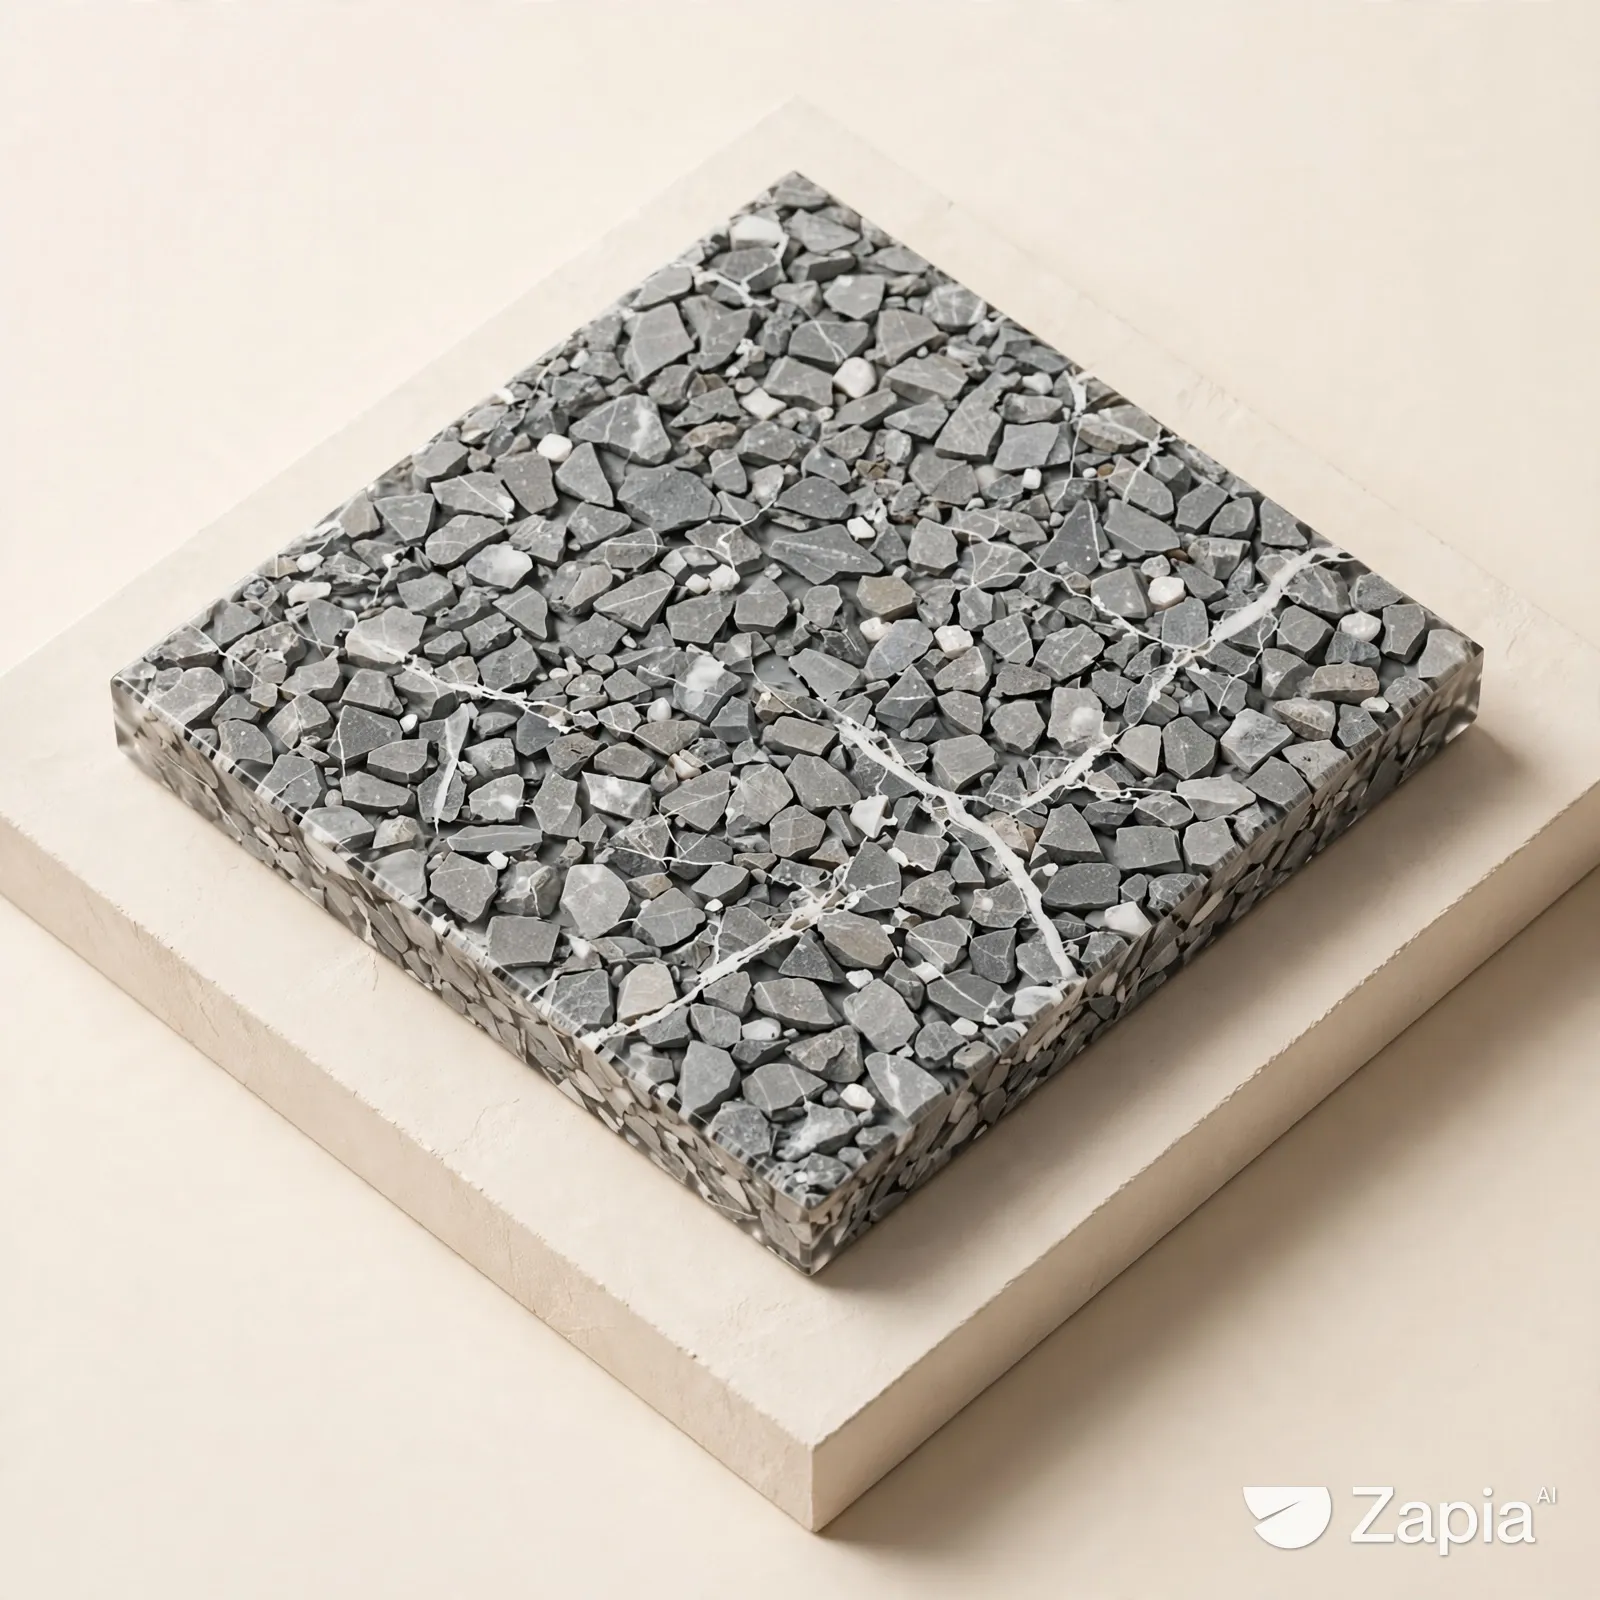
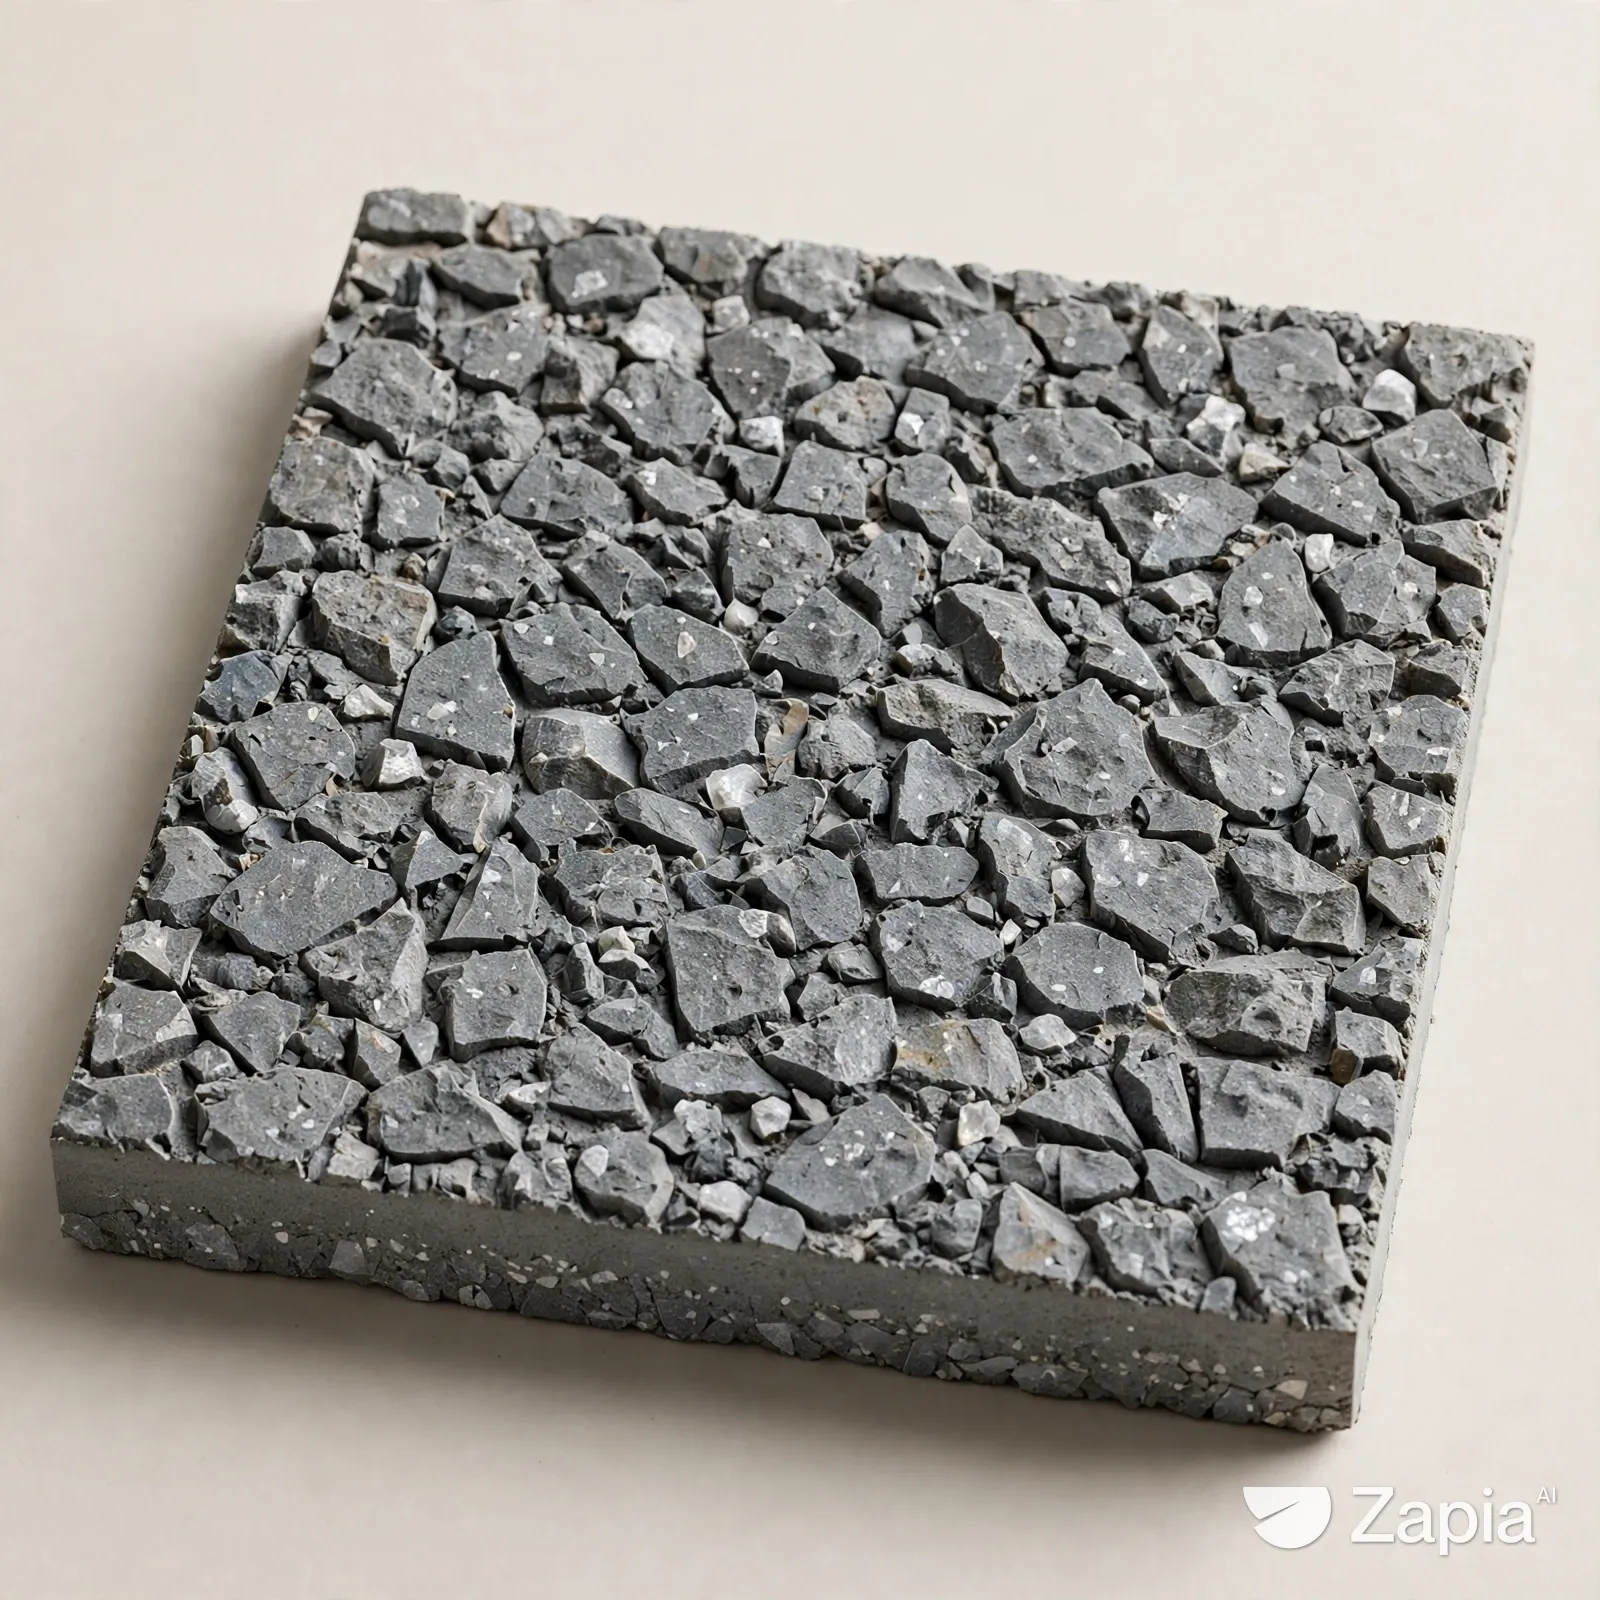
Refine Piso Drenante preview visuals and zoom
Refresh the two conceptual renderings, remove the explanatory box, and set the enlarged product view to 10 × 10 cm. Staging only; original live site unchanged.

diff --git a/index-pt.html b/index-pt.html
@@ -646,7 +646,16 @@
         .granza-volcan-gallery .granza-gallery-grid { grid-template-columns:minmax(0,1fr); max-width:760px; margin:0 auto; }
         @media (max-width:760px) { .granza-inty-gallery .granza-gallery-grid,.granza-siena-gallery .granza-gallery-grid,.granza-volcan-gallery .granza-gallery-grid { grid-template-columns:1fr; max-width:none; } }
         /* Application galleries per aggregate, with accessible CSS-only filters. */
-        </style></head>
+        </style><style id="piso-drenante-zoom-override">
+.piso-drenante-product .img-zoom-preview.granza-reference-preview img {
+  width: 10cm;
+  height: 10cm;
+  max-width: min(90vw, 10cm);
+  max-height: min(90vh, 10cm);
+  object-fit: contain;
+}
+</style>
+</head>
 <body>
 <nav class="nav-executive">
 <div class="nav-inner max-w-7xl mx-auto px-4 flex justify-between items-center">
@@ -889,7 +898,6 @@
 <div class="granza-fact"><strong>Agregado</strong><span>Seixo de rio cinza</span></div>
 </div><div class="granza-use-main"><h3>Aplicação sugerida</h3><p>Pátios e caminhos para pedestres, sujeitos à validação técnica.</p></div></div>
 </div></article>
-<p class="visual-disclaimer">Visualizações conceituais; não representam um produto fabricado. A composição final, a capacidade de drenagem e demais características precisam ser validadas por protótipo e ensaios técnicos. Os usos sugeridos dependem de avaliação técnica e instalação adequada.</p>
 </section>
 <section class="section-content" id="gavion">
 <h2 class="text-3xl font-bold mb-6 text-blue-900 border-l-4 border-yellow-500 pl-4">Gabiões decorativos e mobiliário</h2><p class="visual-disclaimer">As imagens de gabiões são propostas visuais de referência; não representam obras executadas.</p>

diff --git a/index.html b/index.html
@@ -658,7 +658,16 @@
         .granza-volcan-gallery .granza-gallery-grid { grid-template-columns:minmax(0,1fr); max-width:760px; margin:0 auto; }
         @media (max-width:760px) { .granza-inty-gallery .granza-gallery-grid,.granza-siena-gallery .granza-gallery-grid,.granza-volcan-gallery .granza-gallery-grid { grid-template-columns:1fr; max-width:none; } }
         /* Application galleries per aggregate, with accessible CSS-only filters. */
-        </style></head>
+        </style><style id="piso-drenante-zoom-override">
+.piso-drenante-product .img-zoom-preview.granza-reference-preview img {
+  width: 10cm;
+  height: 10cm;
+  max-width: min(90vw, 10cm);
+  max-height: min(90vh, 10cm);
+  object-fit: contain;
+}
+</style>
+</head>
 <body>
 <nav class="nav-executive">
 <div class="nav-inner max-w-7xl mx-auto px-4 flex justify-between items-center">
@@ -889,7 +898,6 @@
 <div class="granza-fact"><strong>Árido</strong><span>Canto rodado de río gris</span></div>
 </div><div class="granza-use-main"><h3>Aplicación sugerida</h3><p>Patios y senderos peatonales, sujetos a validación técnica.</p></div></div>
 </div></article>
-<p class="visual-disclaimer">Visualizaciones conceptuales; no representan un producto fabricado. La composición final, capacidad de drenaje y demás prestaciones deberán validarse mediante prototipo y ensayos técnicos. Los usos sugeridos quedan sujetos a evaluación técnica e instalación adecuada.</p>
 </section>
 <section class="section-content" id="gavion">
 <h2 class="text-3xl font-bold mb-6 text-blue-900 border-l-4 border-yellow-500 pl-4">Gavión Decorativo &amp; Mobiliario</h2><p class="visual-disclaimer">Las imágenes de gaviones son propuestas visuales de referencia; no representan obras ejecutadas.</p>

diff --git a/index-en.html b/index-en.html
@@ -646,7 +646,16 @@
         .granza-volcan-gallery .granza-gallery-grid { grid-template-columns:minmax(0,1fr); max-width:760px; margin:0 auto; }
         @media (max-width:760px) { .granza-inty-gallery .granza-gallery-grid,.granza-siena-gallery .granza-gallery-grid,.granza-volcan-gallery .granza-gallery-grid { grid-template-columns:1fr; max-width:none; } }
         /* Application galleries per aggregate, with accessible CSS-only filters. */
-        </style></head>
+        </style><style id="piso-drenante-zoom-override">
+.piso-drenante-product .img-zoom-preview.granza-reference-preview img {
+  width: 10cm;
+  height: 10cm;
+  max-width: min(90vw, 10cm);
+  max-height: min(90vh, 10cm);
+  object-fit: contain;
+}
+</style>
+</head>
 <body>
 <nav class="nav-executive">
 <div class="nav-inner max-w-7xl mx-auto px-4 flex justify-between items-center">
@@ -889,7 +898,6 @@
 <div class="granza-fact"><strong>Aggregate</strong><span>Grey river pebbles</span></div>
 </div><div class="granza-use-main"><h3>Suggested application</h3><p>Pedestrian patios and paths, subject to technical validation.</p></div></div>
 </div></article>
-<p class="visual-disclaimer">Concept visualizations; they do not depict a manufactured product. Final composition, drainage capacity and other performance must be validated through prototyping and technical testing. Suggested uses remain subject to technical assessment and proper installation.</p>
 </section>
 <section class="section-content" id="gavion">
 <h2 class="text-3xl font-bold mb-6 text-blue-900 border-l-4 border-yellow-500 pl-4">Decorative Gabions &amp; Furniture</h2><p class="visual-disclaimer">Gabion images are illustrative design proposals; they do not depict completed projects.</p>
